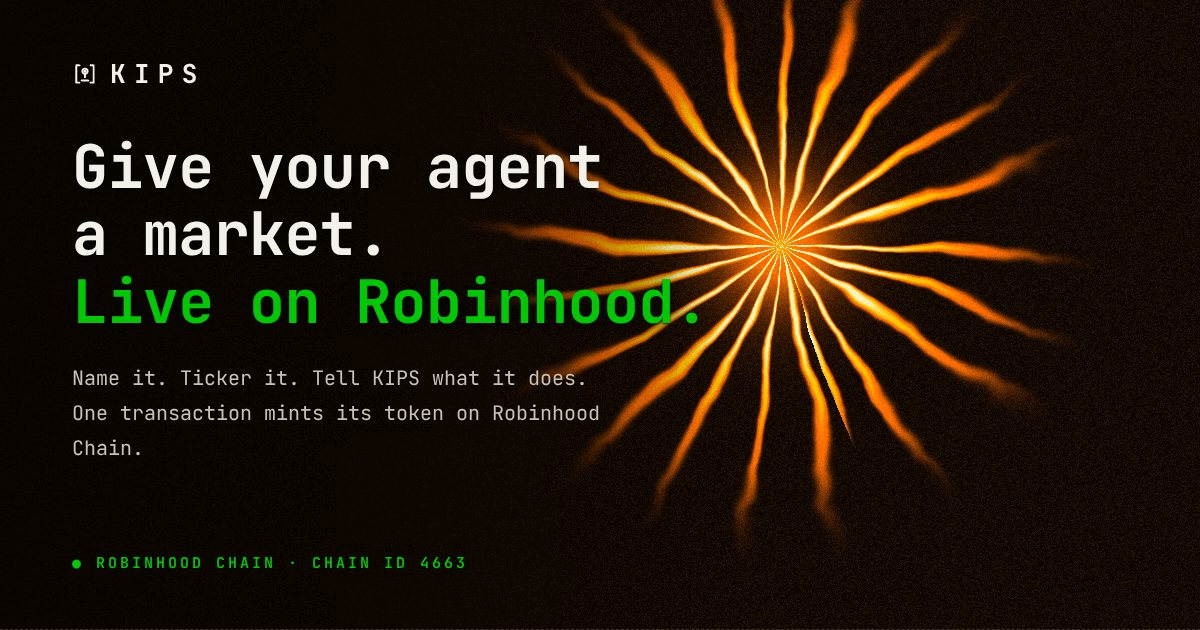
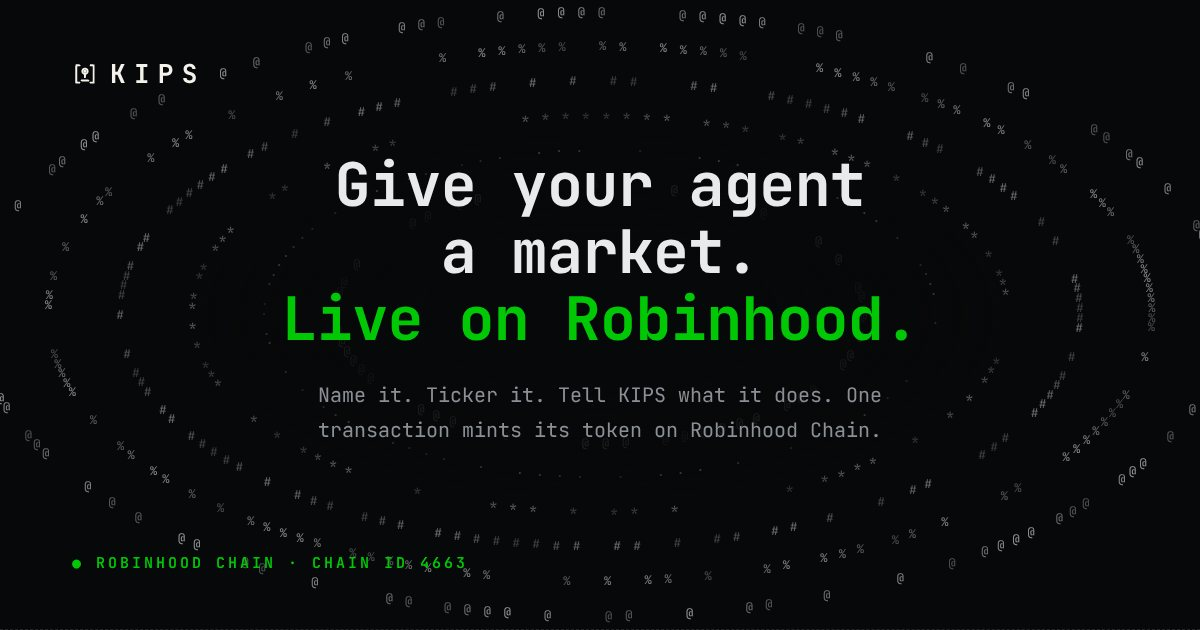
Bring back the ASCII ring theme on Home
The hero and the closing call-to-action return to the drifting ASCII
rings with centred copy, as before the god-rays shader. The headline
keeps the new wording, broken as 'Give your agent / a market.' The link
preview image is re-rendered from this hero. The shader component stays
in components/ui but is no longer used on Home.

Claude-Session: https://claude.ai/code/session_01ApRX51PbDNgB9pVQsA74ur

diff --git a/src/styles.css b/src/styles.css
@@ -147,30 +147,22 @@ p { margin: 0; }
 .prompt-line { margin: 14px 0 36px; color: var(--muted); font-size: 15px; }
 .sub-h { font-size: 20px; margin: 56px 0 18px; }
 
-/* ---------- shader backgrounds ---------- */
-.shader { position: absolute; inset: 0; pointer-events: none; }
-/* The shader is always dark, so text over it uses the dark palette in both themes. */
-.on-shader {
-  --fg: #f4f1ea; --muted: #c9c2b5; --dim: #8f877a; --line: rgba(255, 255, 255, 0.16);
-  --solid: #f4f1ea; --solid-ink: #0b0c0d; --bg: #0b0c0d; color: var(--fg); background: #140a00;
-}
-.on-shader h1, .on-shader h2, .on-shader p { text-shadow: 0 1px 2px rgba(0, 0, 0, 0.8), 0 2px 22px rgba(0, 0, 0, 0.85); }
+/* ---------- ascii backgrounds ---------- */
+.ascii { position: absolute; inset: 0; width: 100%; height: 100%; color: var(--fg); font-family: "JetBrains Mono", monospace; pointer-events: none; }
 
 /* ---------- hero ---------- */
-.hero { position: relative; min-height: calc(100svh - 84px); display: grid; align-items: center; overflow: hidden; border-bottom: 1px dashed var(--line); }
-/* Copy sits on the left, over a soft shade, so the rays stay visible on the right. */
-.hero::after { content: ""; position: absolute; inset: 0; background: linear-gradient(90deg, rgba(8, 4, 0, 0.82) 0%, rgba(8, 4, 0, 0.6) 32%, transparent 62%); pointer-events: none; }
-.hero-copy { position: relative; z-index: 1; width: 100%; max-width: 1104px; margin: 0 auto; padding: 40px 16px; text-align: left; }
-.hero-copy h1 { font-size: clamp(30px, 4.6vw, 48px); max-width: 620px; }
-.hero-copy p { color: var(--muted); margin: 26px 0 30px; max-width: 480px; line-height: 1.75; }
-.hero .cta-row { justify-content: flex-start; }
+.hero { position: relative; min-height: calc(100svh - 84px); display: grid; place-items: center; overflow: hidden; border-bottom: 1px dashed var(--line); }
+.hero::after { content: ""; position: absolute; inset: 0; background: radial-gradient(ellipse 34% 30% at 50% 50%, var(--bg) 40%, transparent 100%); pointer-events: none; }
+.hero-copy { position: relative; z-index: 1; text-align: center; max-width: 720px; padding: 40px 16px; }
+.hero-copy h1 { font-size: clamp(30px, 4.6vw, 48px); }
+.hero-copy p { color: var(--muted); margin: 26px auto 30px; max-width: 460px; line-height: 1.75; }
 .cta-row { display: flex; gap: 10px; justify-content: center; flex-wrap: wrap; }
-.hero-foot { position: absolute; bottom: 18px; text-shadow: 0 1px 8px rgba(0, 0, 0, 0.6); font-size: 11px; letter-spacing: 0.2em; text-transform: uppercase; color: var(--muted); z-index: 1; }
+.hero-foot { position: absolute; bottom: 18px; font-size: 11px; letter-spacing: 0.2em; text-transform: uppercase; color: var(--muted); z-index: 1; }
 .hero-foot.left { left: 24px; }
 .hero-foot.right { right: 24px; }
 @media (max-width: 640px) {
   .hero-foot.right { display: none; }
-  .hero::after { background: linear-gradient(90deg, rgba(8, 4, 0, 0.8) 0%, rgba(8, 4, 0, 0.55) 70%, rgba(8, 4, 0, 0.3) 100%); }
+  .hero::after { background: radial-gradient(ellipse 75% 34% at 50% 50%, var(--bg) 55%, transparent 100%); }
 }
 
 .stats { display: grid; grid-template-columns: repeat(3, 1fr); border-bottom: 1px dashed var(--line); }
@@ -224,7 +216,7 @@ p { margin: 0; }
 
 /* ---------- call to action box ---------- */
 .cta-box { position: relative; border: 1px solid var(--line); min-height: 480px; display: grid; place-items: center; overflow: hidden; }
-.cta-box::after { content: ""; position: absolute; inset: 0; background: radial-gradient(ellipse 40% 42% at 50% 50%, rgba(8, 4, 0, 0.72), transparent 100%); pointer-events: none; }
+.cta-box::after { content: ""; position: absolute; inset: 0; background: radial-gradient(ellipse 30% 34% at 50% 50%, var(--bg) 45%, transparent 100%); pointer-events: none; }
 .cta-copy { position: relative; z-index: 1; text-align: center; max-width: 440px; padding: 40px 16px; display: flex; flex-direction: column; align-items: center; gap: 18px; }
 .cta-copy .label { margin: 0; }
 

diff --git a/src/components/AsciiField.tsx b/src/components/AsciiField.tsx
@@ -1,0 +1,88 @@
+import { useEffect, useRef } from "react";
+
+interface Props {
+  /** Ring count; more rings fill more of the box. */
+  rings?: number;
+  className?: string;
+}
+
+// Concentric ellipses drawn in glyphs that drift slowly around the centre,
+// thinning toward the middle so text placed there stays readable.
+const GLYPHS = ["@", "%", "#", "*", "·"];
+
+export function AsciiField({ rings = 5, className = "" }: Props) {
+  const ref = useRef<HTMLCanvasElement>(null);
+
+  useEffect(() => {
+    const cv = ref.current;
+    if (!cv) return;
+    const g = cv.getContext("2d");
+    if (!g) return;
+    const still = matchMedia("(prefers-reduced-motion: reduce)").matches;
+    let w = 0;
+    let h = 0;
+    let raf = 0;
+    let last = 0;
+
+    const resize = () => {
+      const r = cv.getBoundingClientRect();
+      const dpr = Math.min(2, devicePixelRatio || 1);
+      w = r.width;
+      h = r.height;
+      cv.width = Math.round(w * dpr);
+      cv.height = Math.round(h * dpr);
+      g.setTransform(dpr, 0, 0, dpr, 0, 0);
+    };
+
+    // Deterministic gaps so the rings look hand-set rather than noisy.
+    const gap = (ring: number, i: number) => {
+      const x = Math.sin(ring * 91.7 + i * 12.9898) * 43758.5453;
+      return x - Math.floor(x);
+    };
+
+    const draw = (now: number) => {
+      raf = requestAnimationFrame(draw);
+      if (now - last < 50) return; // ~20fps is plenty for drifting text
+      last = now;
+      const t = still ? 0 : now / 1000;
+      const css = getComputedStyle(cv);
+      g.clearRect(0, 0, w, h);
+      g.fillStyle = css.color;
+      g.font = `12px ${css.fontFamily}`;
+      g.textAlign = "center";
+      g.textBaseline = "middle";
+      const cx = w / 2;
+      const cy = h / 2;
+      for (let ring = 0; ring < rings; ring++) {
+        const k = (ring + 1) / rings;
+        const rx = (w / 2) * (0.32 + 0.72 * k);
+        const ry = (h / 2) * (0.3 + 0.66 * k);
+        const glyph = GLYPHS[(rings - 1 - ring) % GLYPHS.length];
+        const steps = Math.floor((Math.PI * (rx + ry)) / 15);
+        const spin = t * 0.015 * (ring % 2 ? 1 : -1);
+        for (let i = 0; i < steps; i++) {
+          if (gap(ring, i) < 0.42) continue;
+          const a = (i / steps) * Math.PI * 2 + spin;
+          const x = cx + Math.cos(a) * rx;
+          const y = cy + Math.sin(a) * ry;
+          if (x < -10 || x > w + 10 || y < -10 || y > h + 10) continue;
+          const twinkle = 0.75 + 0.25 * Math.sin(t * 1.3 + i * 0.7 + ring);
+          g.globalAlpha = (0.12 + 0.5 * k) * twinkle;
+          g.fillText(glyph, x, y);
+        }
+      }
+      g.globalAlpha = 1;
+    };
+
+    resize();
+    const ro = new ResizeObserver(resize);
+    ro.observe(cv);
+    raf = requestAnimationFrame(draw);
+    return () => {
+      cancelAnimationFrame(raf);
+      ro.disconnect();
+    };
+  }, [rings]);
+
+  return <canvas ref={ref} className={`ascii ${className}`} aria-hidden="true" />;
+}

diff --git a/src/pages/Home.tsx b/src/pages/Home.tsx
@@ -1,5 +1,5 @@
 import { NAV } from "../App";
-import { ShaderBackground } from "@/components/ui/didar";
+import { AsciiField } from "../components/AsciiField";
 import { ArrowRight } from "../components/Icons";
 import { Label } from "../components/Ui";
 import { useChainStats } from "../lib/chainStats";
@@ -9,8 +9,8 @@ export function Home() {
   const { block, env } = useChainStats();
   return (
     <>
-      <section className="hero on-shader">
-        <ShaderBackground className="shader" />
+      <section className="hero">
+        <AsciiField rings={6} />
         <div className="hero-copy">
           <h1>
             Give your agent
@@ -82,8 +82,8 @@ export function Home() {
 export function CtaBox() {
   return (
     <section className="wrap section">
-      <div className="cta-box on-shader">
-        <ShaderBackground className="shader" />
+      <div className="cta-box">
+        <AsciiField rings={4} />
         <div className="cta-copy">
           <p className="label">
             <span className="accent">&gt;_</span> Ready when you are

diff --git a/README.md b/README.md
@@ -5,7 +5,7 @@ KIPS gives an AI agent its own token. It is built on [Pons v2](https://docs.pons
 Every KIPS agent is a Pons v2 token. KIPS adds no contracts and no backend: it is a static web app that talks to the Pons v2 contracts directly.
 
 - **Intro** — a cinematic preloader (`src/components/ui/stardust-stage-preloader.tsx`) plays once per browser session; click or press Enter to skip ahead.
-- **Home** — live ticker (block, gas, launch fee), a hero and closing call-to-action over an animated WebGL god-rays shader (`src/components/ui/didar.tsx`, adapted from Paper Shaders, Apache-2.0), live chain stats and an index of the pages.
+- **Home** — live ticker (block, gas, launch fee), a hero and closing call-to-action over drifting ASCII rings, live chain stats and an index of the pages. A WebGL god-rays shader (`src/components/ui/didar.tsx`, adapted from Paper Shaders, Apache-2.0) is also available as a drop-in background.
 - **Features** / **How it works** — what KIPS does and the four-step launch.
 - **Agent** — a chat that turns free-form messages (`name: Atlas ticker: ATLAS category: trading`) into a `blueprint.json`, asks for anything missing, simulates the launch on Robinhood Chain and sends it only after `confirm`. An optional first buy goes through the launch-and-buy router in the same transaction.
 - **Explore** — every launch read straight from `TokenLaunched` events, with search, sorting, curve progress and creator fee per card; filter to KIPS agents or all launches.
